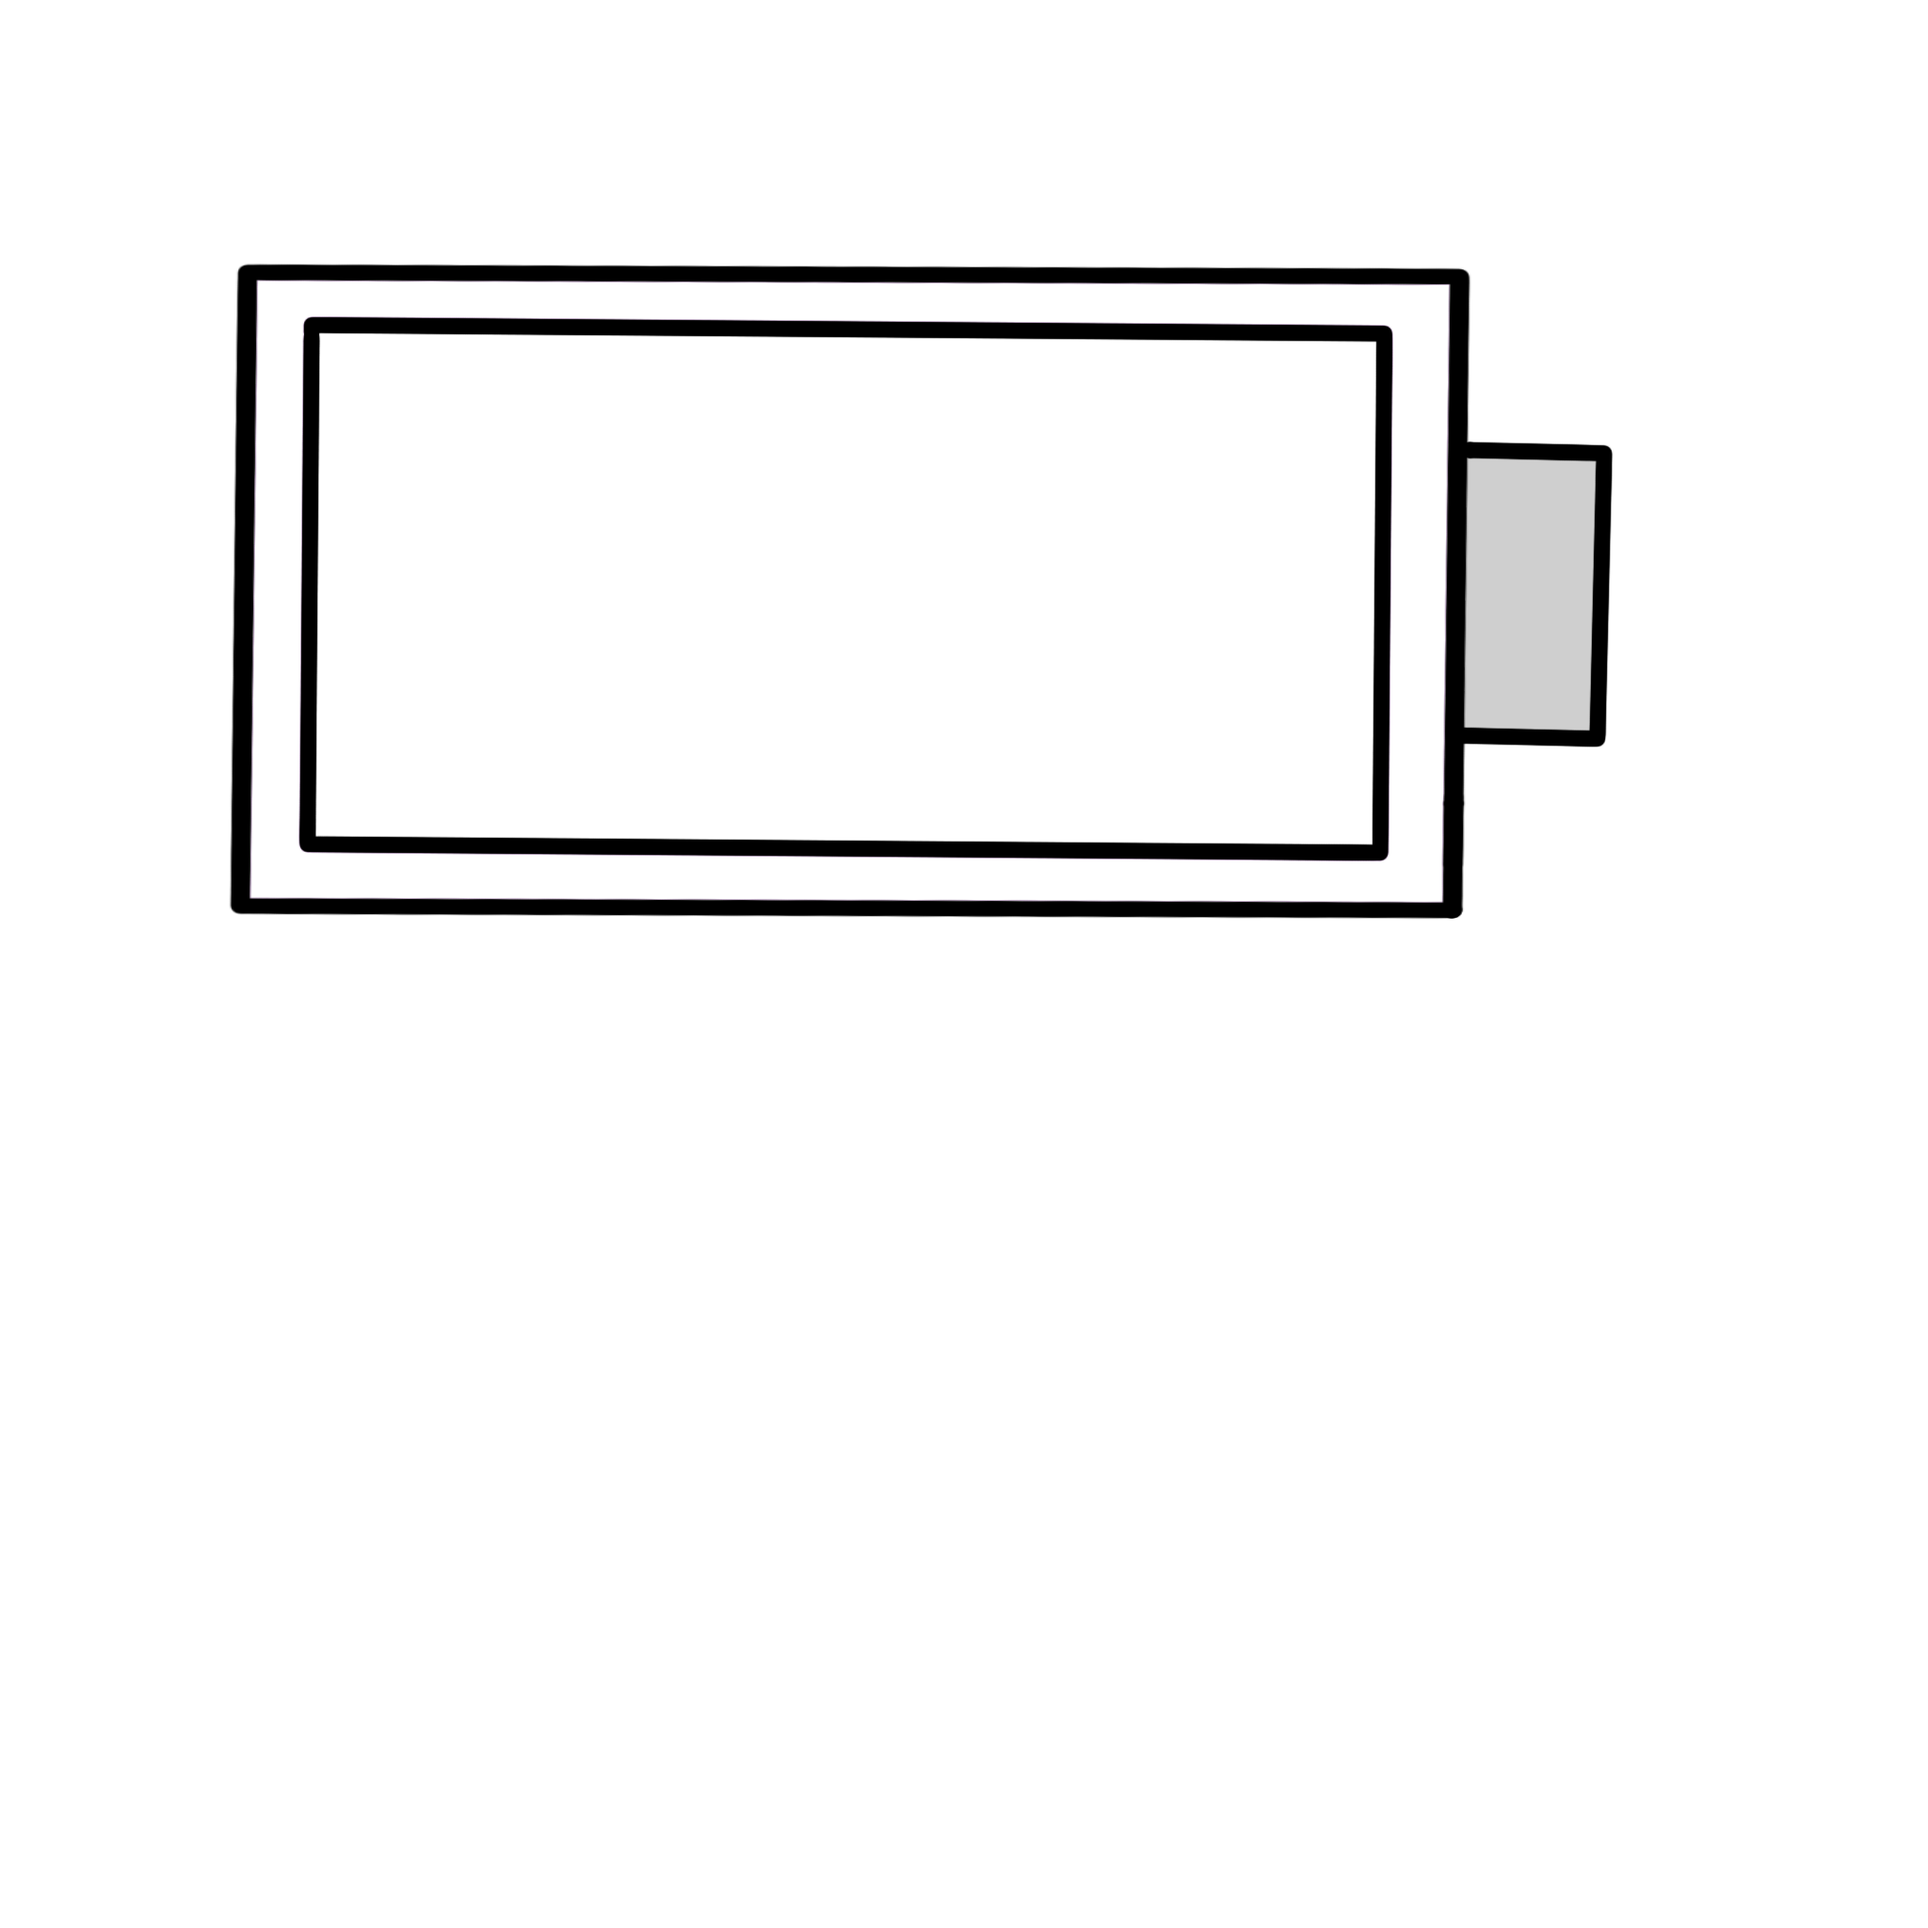
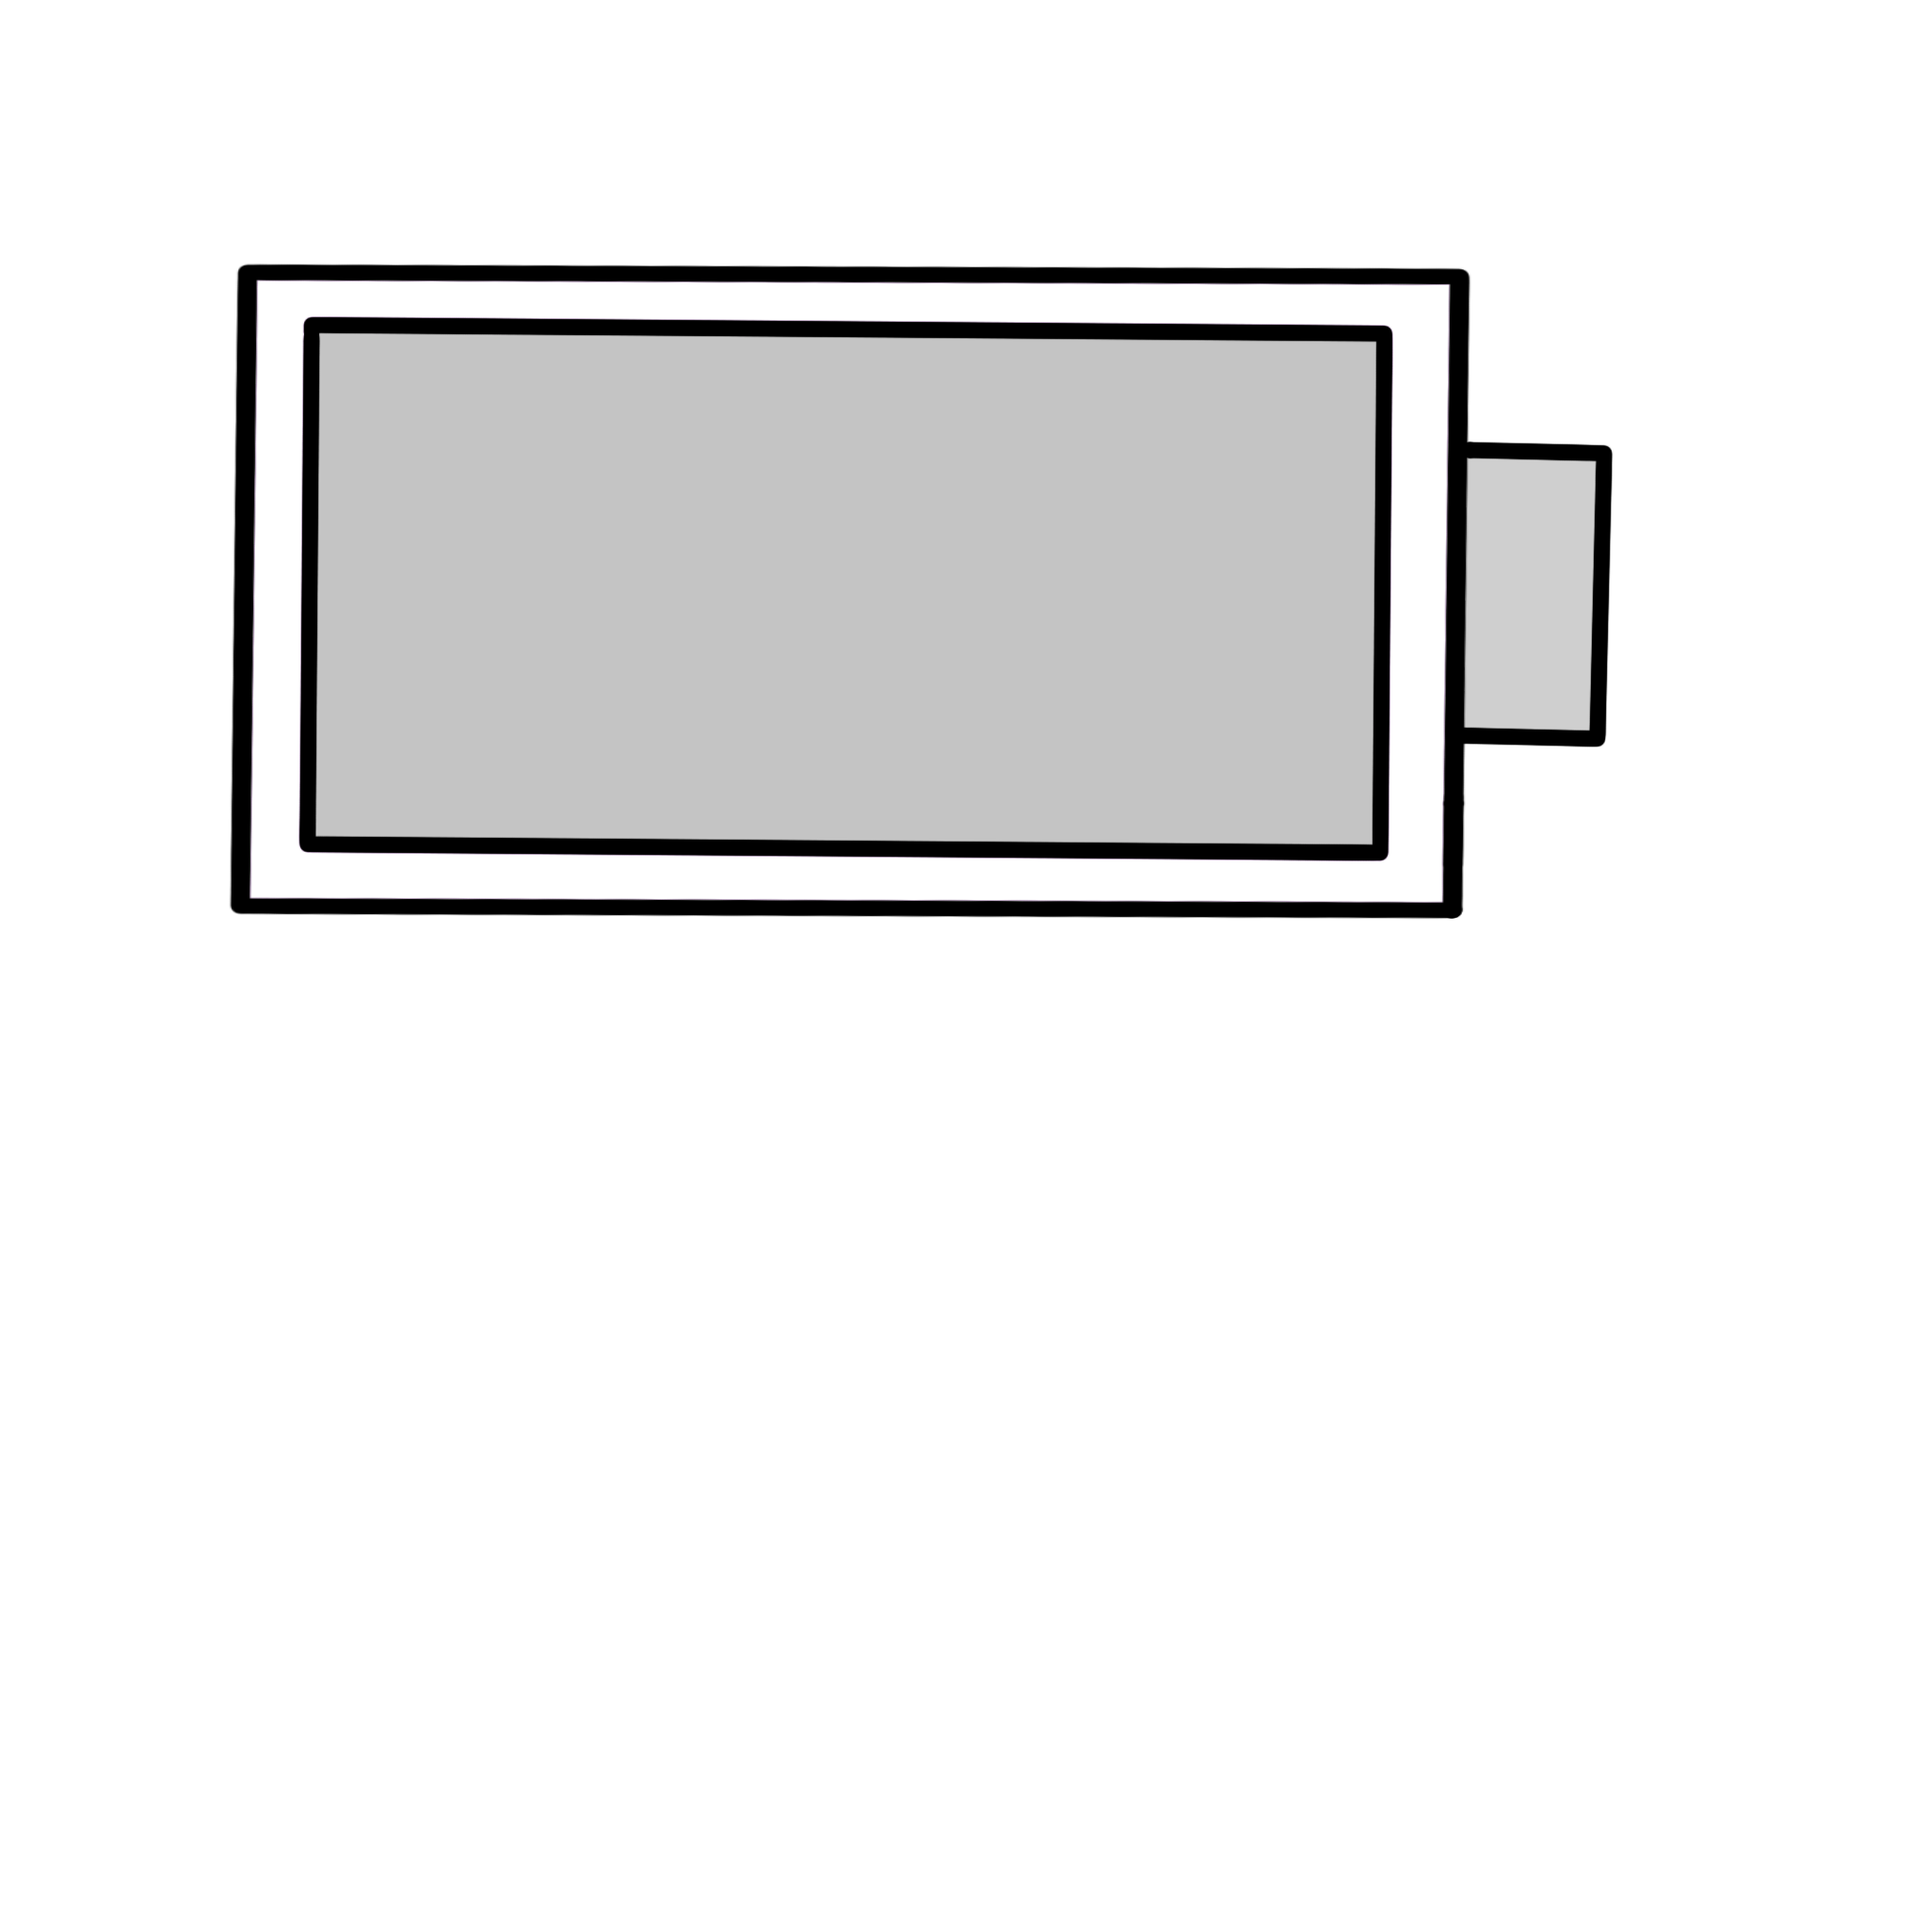
Updated battery image. Hide empty slots until the crab is ready. Added battery animations. Allow for specifying if an object should be rotated. Only rotate pick-ups.

Changed region(s): [[0.1562, 0.1562, 0.7188, 0.4375]]

diff --git a/Assets/Scripts/LevelSetup.cs b/Assets/Scripts/LevelSetup.cs
@@ -62,7 +62,7 @@ public class LevelSetup : MonoBehaviour
         var availableSpaces = gridPositions.Count;
         
         //Create craters in final positions.
-        CreatePrefabs(gridPositions, availableSpaces, _craterPositionJitter, _crater, cellSize, false);
+        CreatePrefabs(gridPositions, availableSpaces, _craterPositionJitter, _crater, cellSize);
     }
     
     private void SetupLevel()
@@ -77,7 +77,7 @@ public class LevelSetup : MonoBehaviour
         //Create objects in final positions.
         foreach (var objectRatio in _objectRatios)
         {
-            CreatePrefabs(gridPositions, availableSpaces, _objectPositionJitter, objectRatio, cellSize, true);
+            CreatePrefabs(gridPositions, availableSpaces, _objectPositionJitter, objectRatio, cellSize);
         }
     }
     
@@ -95,7 +95,7 @@ public class LevelSetup : MonoBehaviour
         }
     }
 
-    private void CreatePrefabs(Queue<Rect> grid, int availableSpaces, Vector2 jitter, ObjectRatio objectRatio, Vector2 cellSize, bool rotate)
+    private void CreatePrefabs(Queue<Rect> grid, int availableSpaces, Vector2 jitter, ObjectRatio objectRatio, Vector2 cellSize)
     {
         var safeNumberToCreate = Mathf.Min(availableSpaces * objectRatio.Ratio, grid.Count);
         for (var i = 0; i < safeNumberToCreate; i++)
@@ -105,7 +105,7 @@ public class LevelSetup : MonoBehaviour
             var yJitter = Random.Range(-jitter.y, jitter.y);
             var x = cellCoordinates.x + xJitter + cellSize.x / 2;
             var y = cellCoordinates.y + yJitter - cellSize.y / 2;
-            _spawnedObjects.Add( Instantiate(objectRatio.Object, new Vector3(x, y, 0), rotate ? Quaternion.Euler(0, 0, Random.value * 360) : Quaternion.identity));
+            _spawnedObjects.Add( Instantiate(objectRatio.Object, new Vector3(x, y, 0), objectRatio.Rotate ? Quaternion.Euler(0, 0, Random.value * 360) : Quaternion.identity));
         }
     }
 

diff --git a/Assets/Scripts/RobotCharacter.cs b/Assets/Scripts/RobotCharacter.cs
@@ -86,6 +86,11 @@ public class RobotCharacter : MonoBehaviour
             var dy = Input.GetAxisRaw("Vertical");
 
             vel = new Vector3(dx, dy, 0).normalized * _moveSpeed * _speedMultiplier;
+
+            if (Math.Abs(dx) > 0.001f || Math.Abs(dy) > 0.001f && IsReady())
+            {
+                _hasMoved = true;
+            }
         }
         else if (_gameState.State==States.Countdown)
         {
@@ -126,7 +131,8 @@ public class RobotCharacter : MonoBehaviour
             gameObject.transform.position = _startPosition.position;
         }
         else if (newState == States.Scavenge)
-        {            
+        {
+            _hasMoved = false;
             StartCoroutine(GainConsciousness());
             ResetPowerUps();
             //Physics2D.SetLayerCollisionMask(gameObject.layer, _normalCollisionMask);
@@ -245,6 +251,7 @@ public class RobotCharacter : MonoBehaviour
         _maxItems = 3;
     }
 
+    private bool _hasMoved = false;
     void UpdateItemTrail()
     {
         Vector3 currentPos = transform.position + (_trailDir * _itemTrailStart);
@@ -257,7 +264,7 @@ public class RobotCharacter : MonoBehaviour
 
             if (_itemSlots[i].item == null)
             {
-                _emptySlotGfx[i].SetActive(_gameState.State == States.Scavenge);
+                _emptySlotGfx[i].SetActive(_gameState.State == States.Scavenge && IsReady() && _hasMoved);
                 slotTransform = _emptySlotGfx[i].transform;
 
                 multiplier = 0.15f;

diff --git a/Assets/Scripts/RobotHud.cs b/Assets/Scripts/RobotHud.cs
@@ -10,6 +10,7 @@ public class RobotHud : MonoBehaviour
 
     [SerializeField] Canvas canvas;
     [SerializeField] private Slider battery;
+    [SerializeField] private Image batteryColour;
 
     Vector3 _hudRelativePos;
 
@@ -62,6 +63,11 @@ public class RobotHud : MonoBehaviour
         if (target.IsReady())
         {
             battery.value = playerData.timeRemaining;
+            batteryColour.color = Color.Lerp(new Color(0.09656461f, 0.6603774f, 0.1849014f), new Color(0.922f, 0.1671421f, 0.1849014f), 1 - battery.value / playerData.levelDuration);
+            if (battery.value < 4)
+            {
+                canvas.enabled = (battery.value % 0.3f) < 0.15f;
+            }
         }
 
         canvas.transform.position = target.transform.position + _hudRelativePos;

diff --git a/Assets/Scripts/ObjectRatio.cs b/Assets/Scripts/ObjectRatio.cs
@@ -9,4 +9,6 @@ public class ObjectRatio
     public GameObject Object => _object;
     [SerializeField] private float _ratio;
     public float Ratio => _ratio;
+    [SerializeField] private bool _rotate;
+    public bool Rotate => _rotate;
 }
